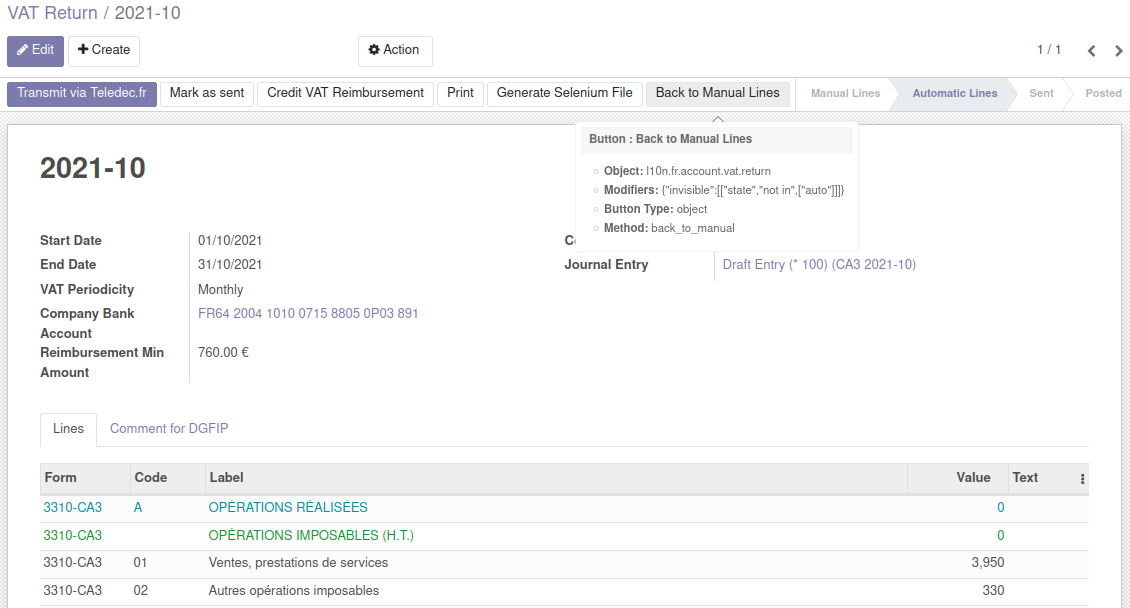
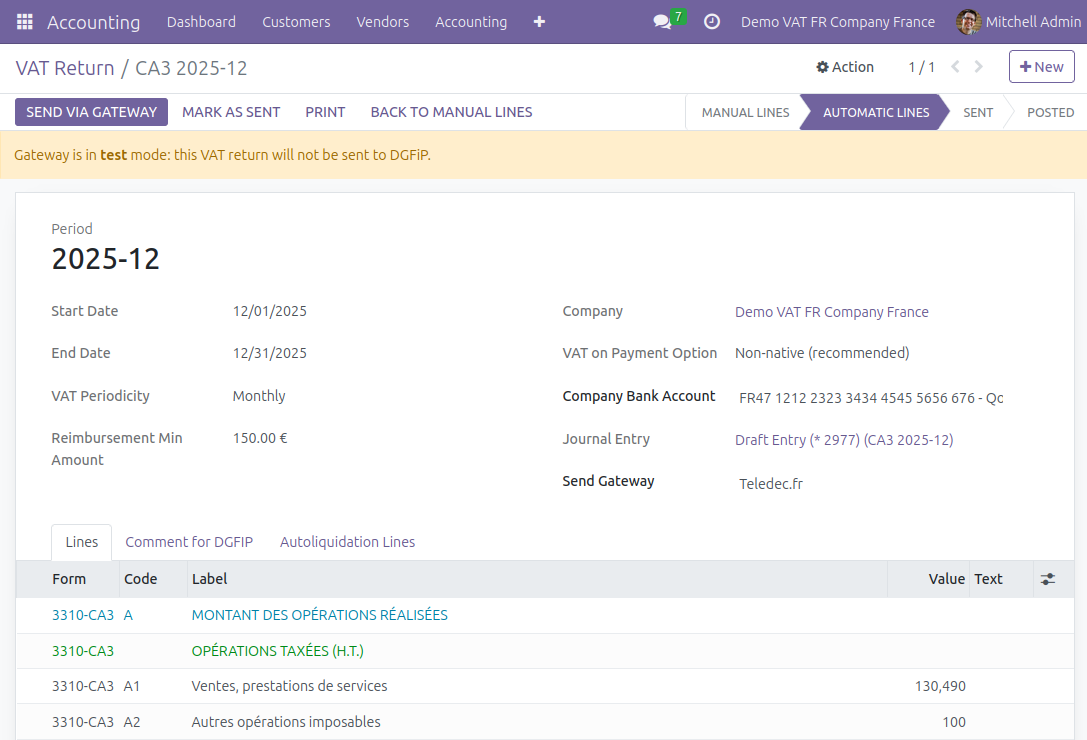
[IMP] l10n_fr_account_vat_return_teledec: update screenshot and README

diff --git a/l10n_fr_account_vat_return_teledec/static/description/index.html b/l10n_fr_account_vat_return_teledec/static/description/index.html
@@ -375,7 +375,7 @@ ul.auto-toc {
 - 3310-CA3 monthly and quarterly,
 - 3310-A (Appendix),
 - 3514 (Credit VAT reimbursement).</p>
-<p>The price of this EDI service for VAT returns is written on the <a class="reference external" href="https://www.teledec.fr/teledeclarer-et-payer-la-tva">VAT page</a> of the Teledec.fr website.</p>
+<p>The price of this EDI service for VAT returns is written on the page <a class="reference external" href="https://www.teledec.fr/presentation/solutions/liasse-fiscale-teledeclaration">TELEDEC : la solution pour vos déclarations fiscales</a> in the drop-down section <em>Déclarer et payer la TVA</em> at the bottom of the page.</p>
 <p><strong>Table of contents</strong></p>
 <div class="contents local topic" id="contents">
 <ul class="simple">
@@ -404,7 +404,7 @@ ul.auto-toc {
 </div>
 <div class="section" id="usage">
 <h1><a class="toc-backref" href="#toc-entry-2">Usage</a></h1>
-<p>On a VAT return in Odoo, when you reach the step <em>Automatic Lines</em>, you will see a button <em>Transmit via Teledec.fr</em>. Simply click on this button to teletransmit the VAT return to DGFiP via Teledec.</p>
+<p>On a VAT return in Odoo, when you reach the step <em>Automatic Lines</em>, you will see a button <em>Send via Gateway</em> and a field <em>Send Gateway</em> to select the gateway. Make sure the field <em>Send Gateway</em> is set to <em>Teledec.fr</em> and then click on the button <em>Send via Gateway</em> to teletransmit the VAT return to DGFiP via Teledec.</p>
 <div class="figure">
 <img alt="VAT Return with option to teletransmit via Teledec.fr." src="https://raw.githubusercontent.com/OCA/l10n-france/16.0/l10n_fr_account_vat_return_teledec/static/description/transmit_teledec_button.png" />
 </div>

diff --git a/l10n_fr_account_vat_return_teledec/README.rst b/l10n_fr_account_vat_return_teledec/README.rst
@@ -35,7 +35,7 @@ This module supports EDI teletransmission of:
 - 3310-A (Appendix),
 - 3514 (Credit VAT reimbursement).
 
-The price of this EDI service for VAT returns is written on the `VAT page <https://www.teledec.fr/teledeclarer-et-payer-la-tva>`_ of the Teledec.fr website.
+The price of this EDI service for VAT returns is written on the page `TELEDEC : la solution pour vos déclarations fiscales <https://www.teledec.fr/presentation/solutions/liasse-fiscale-teledeclaration>`_ in the drop-down section *Déclarer et payer la TVA* at the bottom of the page.
 
 **Table of contents**
 
@@ -58,10 +58,9 @@ In the Odoo Server configuration file, add an entry **teledec_private_key** with
 Usage
 =====
 
-On a VAT return in Odoo, when you reach the step *Automatic Lines*, you will see a button *Transmit via Teledec.fr*. Simply click on this button to teletransmit the VAT return to DGFiP via Teledec.
+On a VAT return in Odoo, when you reach the step *Automatic Lines*, you will see a button *Send via Gateway* and a field *Send Gateway* to select the gateway. Make sure the field *Send Gateway* is set to *Teledec.fr* and then click on the button *Send via Gateway* to teletransmit the VAT return to DGFiP via Teledec.
 
 .. figure:: https://raw.githubusercontent.com/OCA/l10n-france/16.0/l10n_fr_account_vat_return_teledec/static/description/transmit_teledec_button.png
-   :scale: 80 %
    :alt: VAT Return with option to teletransmit via Teledec.fr.
 
 Teledec will send you an email once they have successfully transmitted your VAT return to DGFiP.

diff --git a/l10n_fr_account_vat_return_teledec/readme/USAGE.rst b/l10n_fr_account_vat_return_teledec/readme/USAGE.rst
@@ -1,7 +1,6 @@
-On a VAT return in Odoo, when you reach the step *Automatic Lines*, you will see a button *Transmit via Teledec.fr*. Simply click on this button to teletransmit the VAT return to DGFiP via Teledec.
+On a VAT return in Odoo, when you reach the step *Automatic Lines*, you will see a button *Send via Gateway* and a field *Send Gateway* to select the gateway. Make sure the field *Send Gateway* is set to *Teledec.fr* and then click on the button *Send via Gateway* to teletransmit the VAT return to DGFiP via Teledec.
 
 .. figure:: static/description/transmit_teledec_button.png
-   :scale: 80 %
    :alt: VAT Return with option to teletransmit via Teledec.fr.
 
 Teledec will send you an email once they have successfully transmitted your VAT return to DGFiP.

diff --git a/l10n_fr_account_vat_return_teledec/readme/DESCRIPTION.rst b/l10n_fr_account_vat_return_teledec/readme/DESCRIPTION.rst
@@ -5,4 +5,4 @@ This module supports EDI teletransmission of:
 - 3310-A (Appendix),
 - 3514 (Credit VAT reimbursement).
 
-The price of this EDI service for VAT returns is written on the `VAT page <https://www.teledec.fr/teledeclarer-et-payer-la-tva>`_ of the Teledec.fr website.
+The price of this EDI service for VAT returns is written on the page `TELEDEC : la solution pour vos déclarations fiscales <https://www.teledec.fr/presentation/solutions/liasse-fiscale-teledeclaration>`_ in the drop-down section *Déclarer et payer la TVA* at the bottom of the page.
